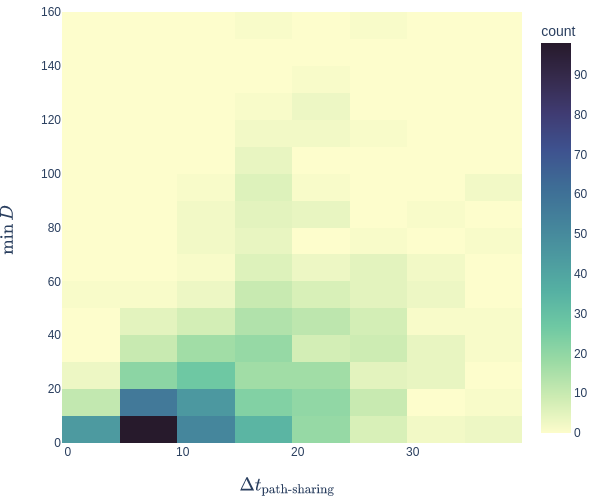
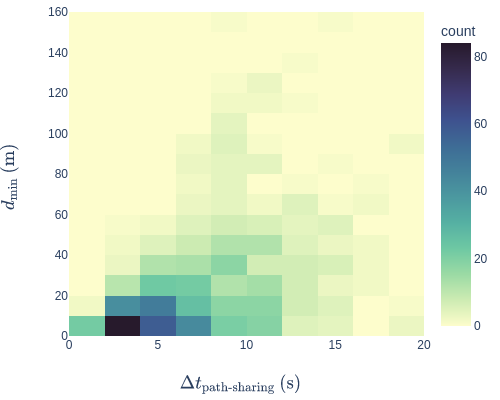
minor change figure

diff --git a/plot_scene_stats.py b/plot_scene_stats.py
@@ -9,6 +9,7 @@ df_train = pd.read_csv('interaction_scenes/interaction_metrics_train_all.csv')
 df_val = pd.read_csv('interaction_scenes/interaction_metrics_val_all.csv')
 df  = pd.concat([df_train, df_val])
 
+df['start_path_sharing_time_difference'] = df['start_path_sharing_frame_difference']  / 2 # 2 Hz
 
 df_path_sharing = df[df['path_sharing_bool']]  # path sharing at the end
 df_interaction = df[df['interaction_bool']]
@@ -17,6 +18,7 @@ N_scenes = len(df['scene'].unique())
 df_agents = df[['num_agents_scene', 'scene']].drop_duplicates()
 assert len(df_agents) == N_scenes
 mean_N_agents = df_agents.num_agents_scene.mean()
+total_N_agents = df_agents.num_agents_scene.sum()
 df_agents['num_interactions_theoretical'] = df_agents['num_agents_scene']*(df_agents['num_agents_scene'] - 1)/2  #  theroetical number of interactions: N · (N − 1)/2
 N_interactions_theoretical_total = sum(df_agents['num_interactions_theoretical'])
 N_interactions_real_total = len(df) # this df contains all agent-pairs of all scenes. Only added if there are enough common frames in the data
@@ -26,6 +28,7 @@ N_interactions_final_total = None # from results; missing interactions due to pr
 
 print('N_scenes: ', N_scenes)
 print('mean_N_agents: ', mean_N_agents)
+print('total_N_agents', total_N_agents)
 print('N_interactions_theoretical_total: ', N_interactions_theoretical_total)
 print('N_interactions_real_total', N_interactions_real_total)
 print('N_interactions_pathsharing_total', N_interactions_pathsharing_total)
@@ -34,15 +37,17 @@ print('N_interactions_final_total', N_interactions_final_total)
 
 # px.scatter(df_path_sharing, x = 'start_path_sharing_frame_difference', y = 'real_time_closest_distance').show()
 fig = px.density_heatmap(df_path_sharing, 
-                   x = 'start_path_sharing_frame_difference', y = 'real_time_closest_distance',
+                   x = 'start_path_sharing_time_difference', y = 'real_time_closest_distance',
                    color_continuous_scale='deep')
 # px.histogram(df_path_sharing, x = 'start_path_sharing_frame_difference').show()
 
 
 fig.update_layout(margin=dict(l=5, r=5, t=5, b=5))
-fig.update_layout(width=600, height=500)
-fig.update_xaxes(title_text=r"$\Delta t_{\text{path-sharing}}$",title_font={"size": 30})
-fig.update_yaxes(title_text=r"$\min D$",title_font={"size": 30})
+fig.update_layout(width=500, height=400)
+fig.update_xaxes(title_text=r"$\Delta t_{\text{path-sharing}} \, \text{(s)}$",title_font={"size": 40})
+# fig.update_yaxes(title_text=r"$\min D$",title_font={"size": 30}) 
+fig.update_yaxes(title_text=r"$d_{\text{min}} \, \text{(m)}$",title_font={"size": 40})
+
 
 pio.write_image(fig, 'interaction_scenes/path_sharing_density.png')
 
